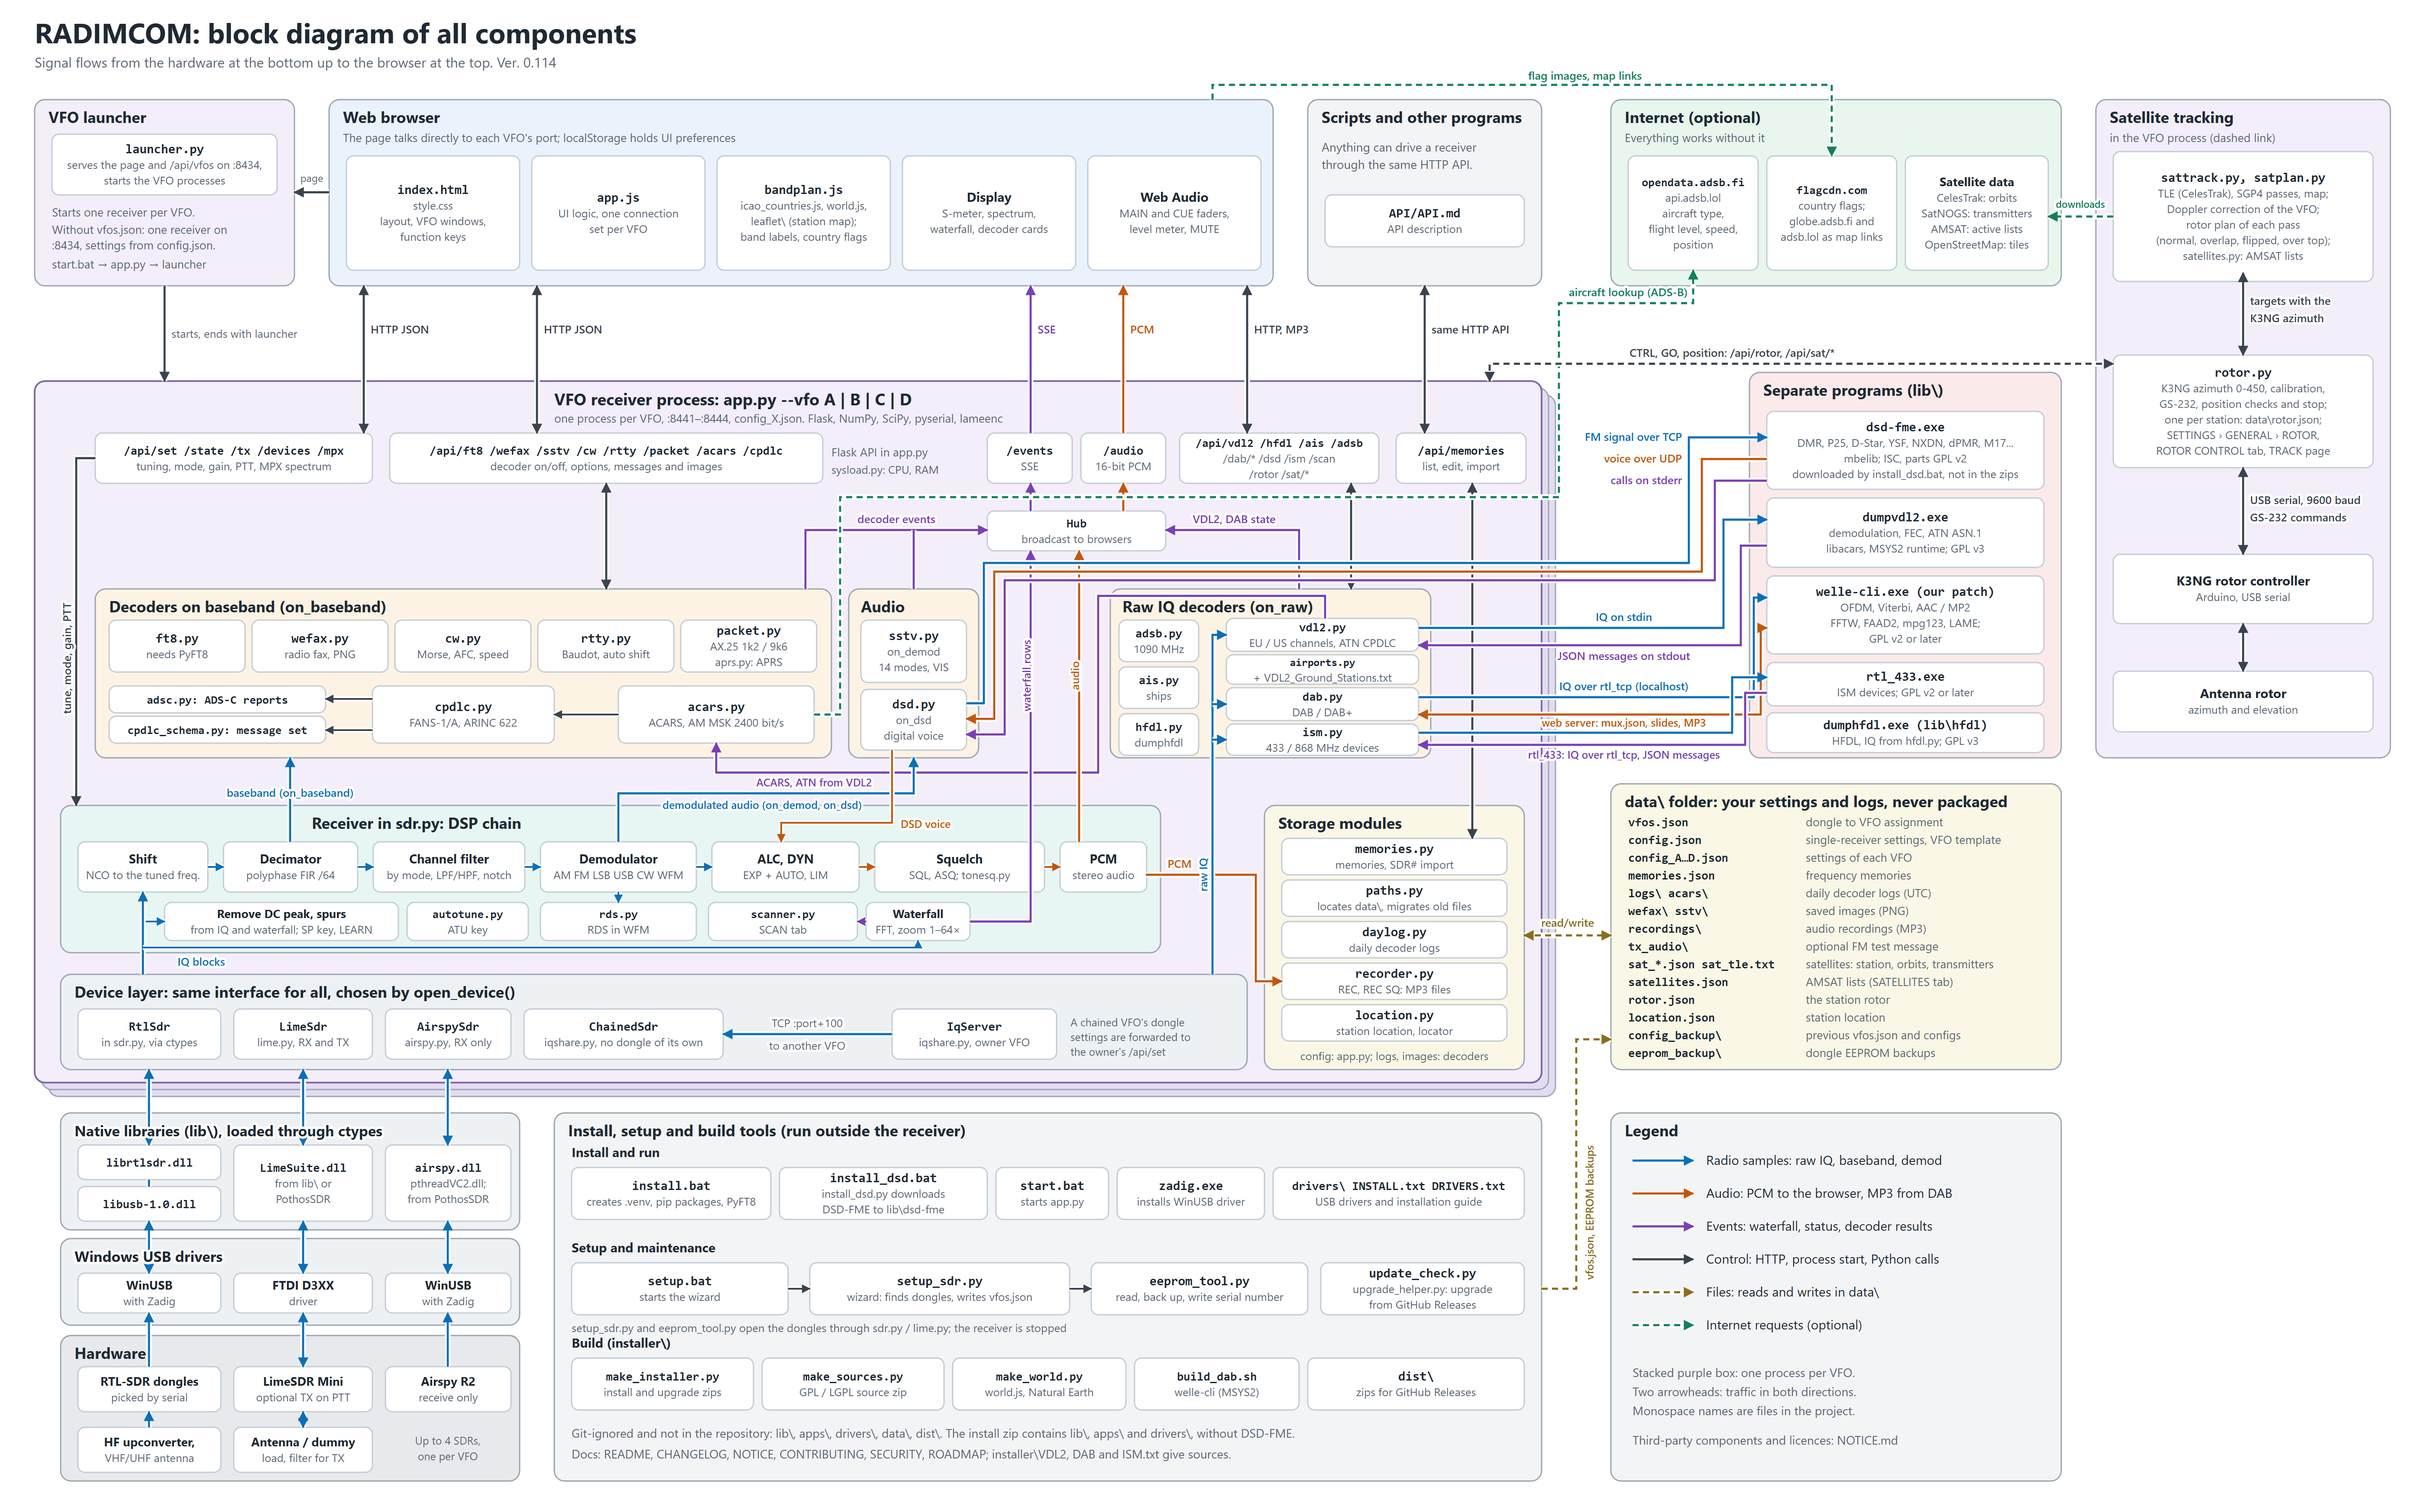
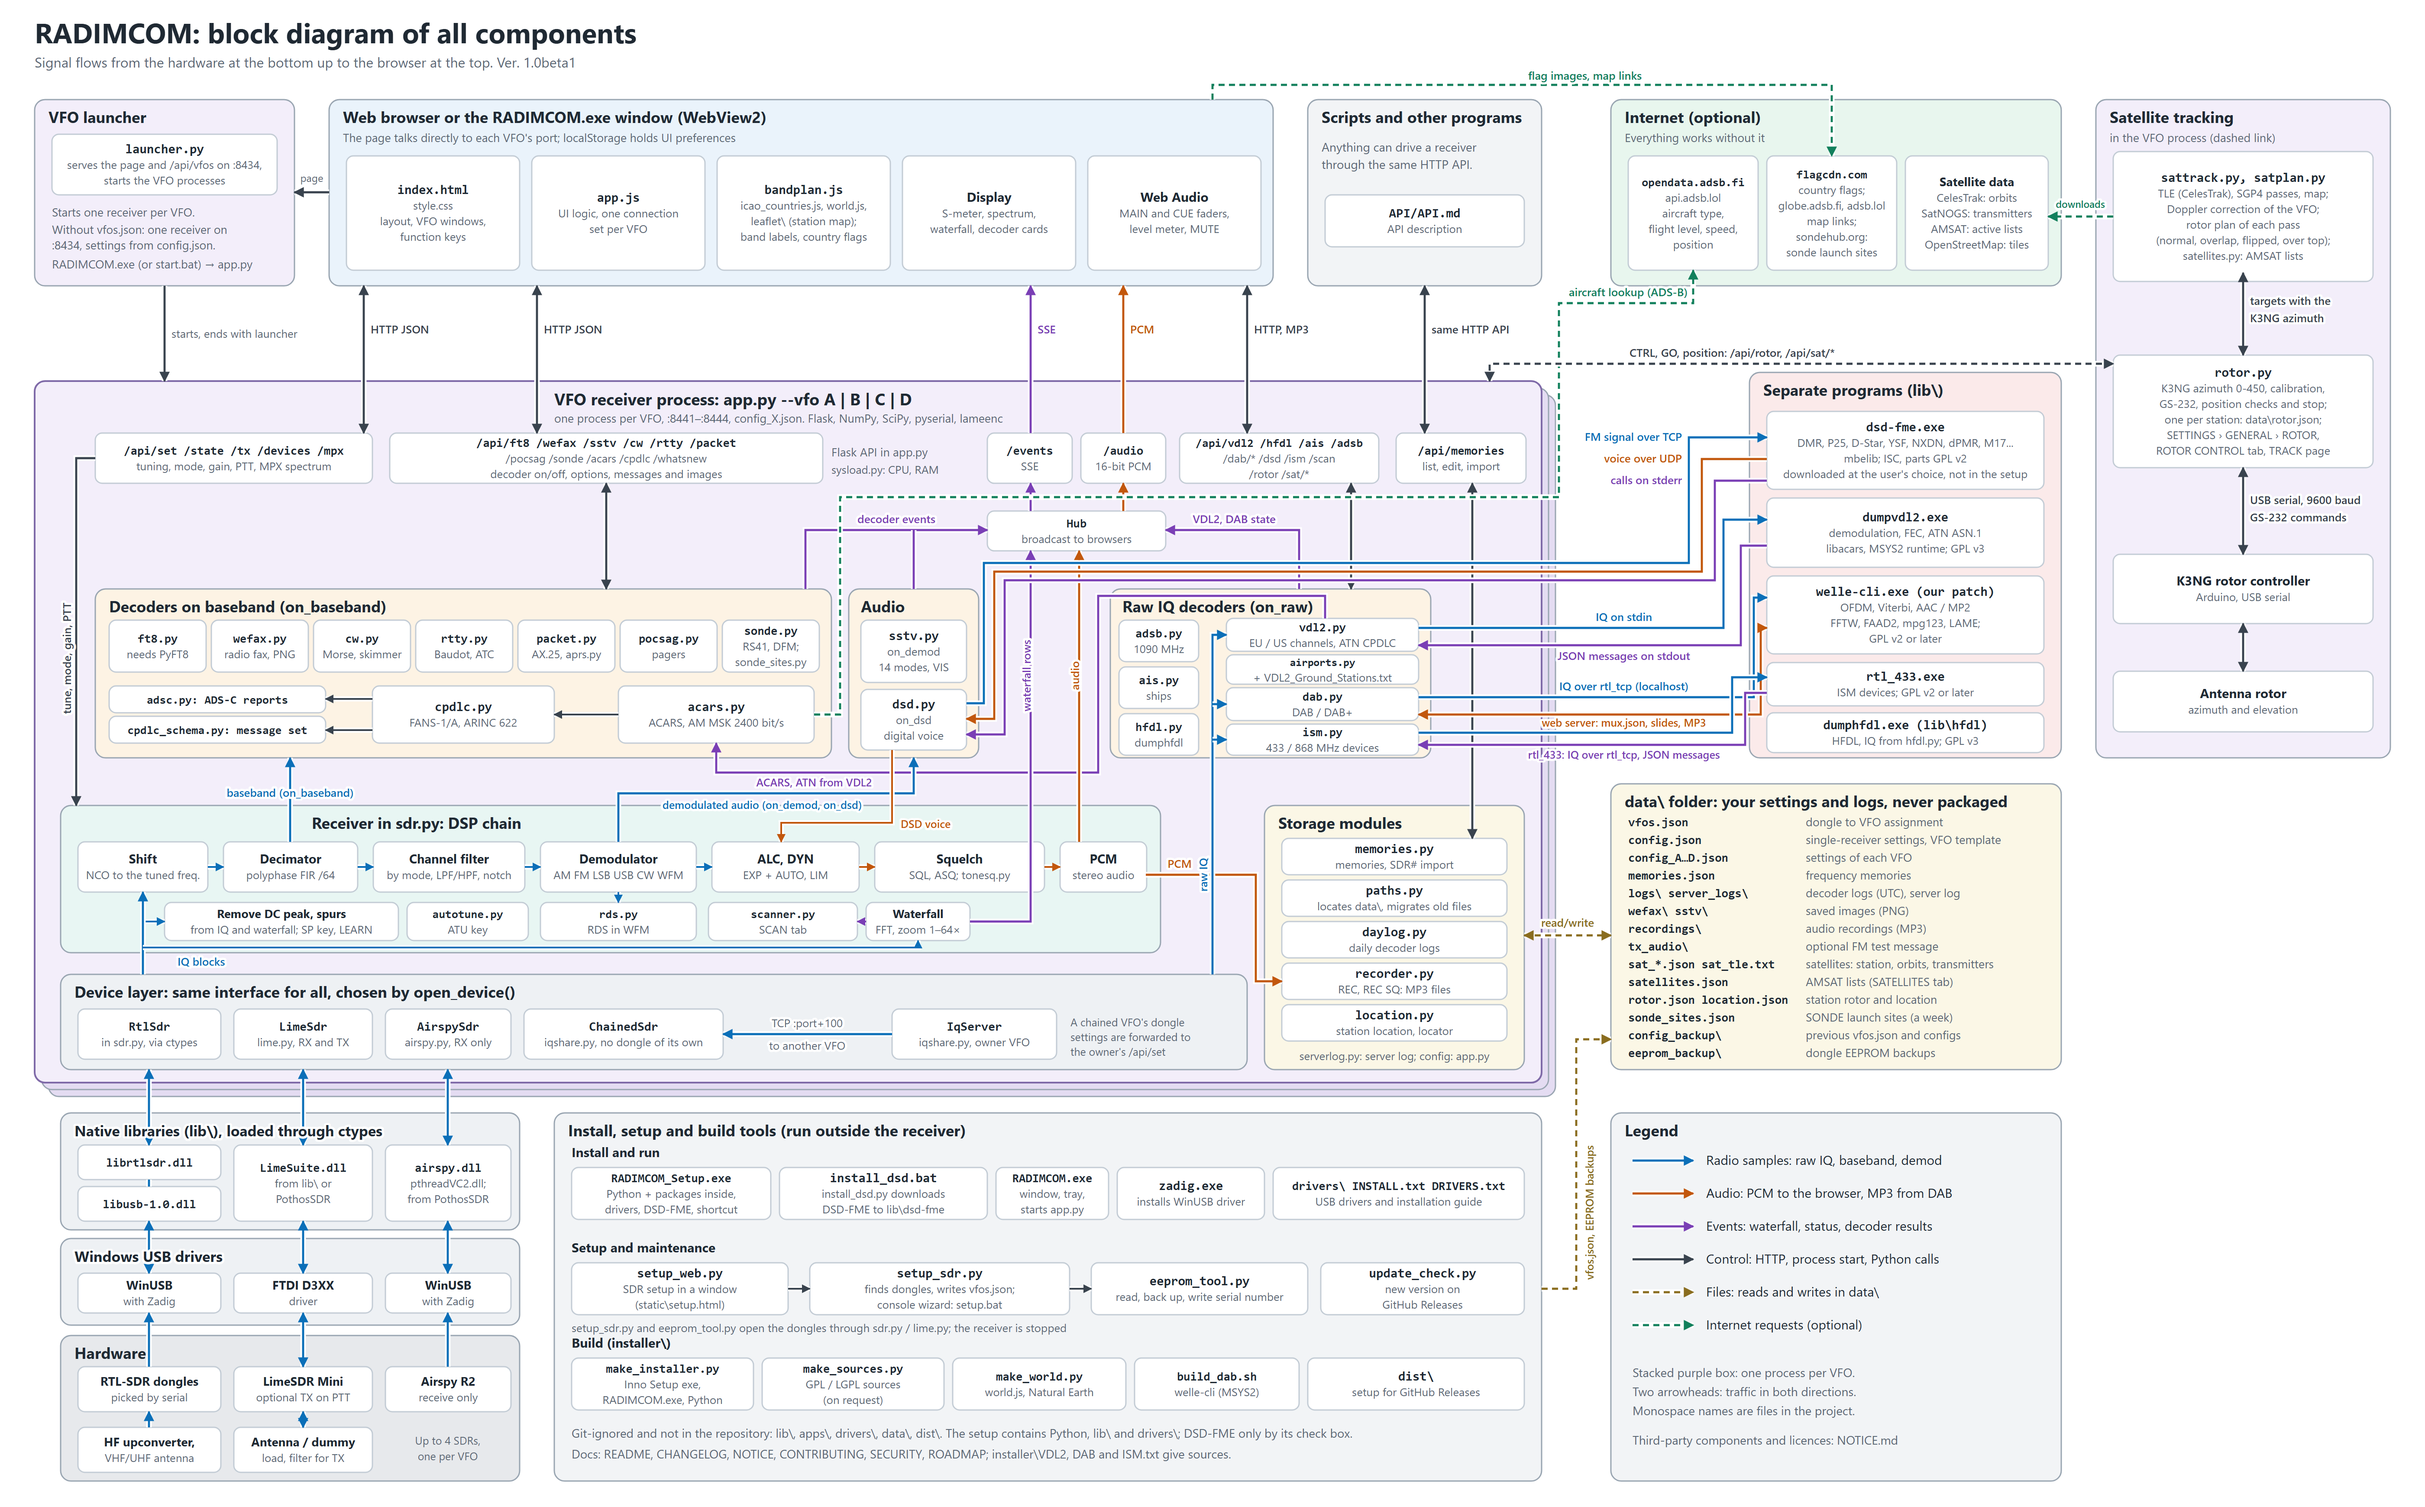
1.0beta1: new test beta after the 0.115 release (version 1.0beta1, changelog sections); NOTICE: GPL / LGPL sources on request instead of a zip per release; block diagram updated to 0.115 (setup, RADIMCOM.exe, SDR setup window, server log, POCSAG, radiosondes, SondeHub)

diff --git a/static/index.html b/static/index.html
@@ -171,7 +171,7 @@
         </a>
         <span class="r-tag">SDR COMMUNICATIONS RECEIVER</span>
         <!-- version under the logo (installer and update_check read it from .r-ver); a newer one blinks beside it, DONATE under it -->
-        <span class="r-vers"><span class="r-ver">Ver. 0.115</span><a class="r-upd" id="updLink" href="https://github.com/om2amr/RADIMCOM/releases" target="_blank" rel="noopener noreferrer" hidden></a></span>
+        <span class="r-vers"><span class="r-ver">Ver. 1.0beta1</span><a class="r-upd" id="updLink" href="https://github.com/om2amr/RADIMCOM/releases" target="_blank" rel="noopener noreferrer" hidden></a></span>
         <button class="r-don" id="donBtn" type="button" title="Support RADIMCOM – buy us a coffee">☕ DONATE</button>
         </div>
         <!-- only in RADIMCOM.exe (app window): full screen as a small engraved icon in the corner (MAIN is the LED of the logo) -->

diff --git a/docs/block_diagram.py b/docs/block_diagram.py
@@ -48,7 +48,7 @@ def label(x,y,s,kind=None,anchor="middle",size=13,rot=None):
 
 # Title
 text(40,50,"RADIMCOM: block diagram of all components",32,weight=700)
-text(40,78,"Signal flows from the hardware at the bottom up to the browser at the top. Ver. 0.114",16,MUTE)
+text(40,78,"Signal flows from the hardware at the bottom up to the browser at the top. Ver. 1.0beta1",16,MUTE)
 
 # ---------- top row ----------
 group(40,115,300,215,"VFO launcher",FILL["srv"])
@@ -56,9 +56,9 @@ box(60,155,260,70,"launcher.py",["serves the page and /api/vfos on :8434,","star
 text(60,250,"Starts one receiver per VFO.",13.5,MUTE)
 text(60,270,"Without vfos.json: one receiver on",13.5,MUTE)
 text(60,288,":8434, settings from config.json.",13.5,MUTE)
-text(60,310,"start.bat → app.py → launcher",13.5,MUTE)
+text(60,310,"RADIMCOM.exe (or start.bat) → app.py",13.5,MUTE)
 
-group(380,115,1090,215,"Web browser",FILL["ui"],"The page talks directly to each VFO's port; localStorage holds UI preferences")
+group(380,115,1090,215,"Web browser or the RADIMCOM.exe window (WebView2)",FILL["ui"],"The page talks directly to each VFO's port; localStorage holds UI preferences")
 box(400,180,200,132,"index.html",["style.css","layout, VFO windows,","function keys"],)
 box(614,180,200,132,"app.js",["UI logic, one connection","set per VFO"])
 box(828,180,200,132,"bandplan.js",["icao_countries.js, world.js,","leaflet\\ (station map);","band labels, country flags"])
@@ -72,7 +72,7 @@ box(1530,225,230,60,"API/API.md",["API description"])
 
 group(1860,115,520,215,"Internet (optional)",FILL["net"],"Everything works without it")
 box(1880,180,150,132,"opendata.adsb.fi",["api.adsb.lol","aircraft type,","flight level, speed,","position"],size=13.5)
-box(2040,180,150,132,"flagcdn.com",["country flags;","globe.adsb.fi and","adsb.lol as map links"],size=13.5)
+box(2040,180,150,132,"flagcdn.com",["country flags;","globe.adsb.fi, adsb.lol","map links;","sondehub.org:","sonde launch sites"],size=13.5)
 box(2200,180,165,132,"Satellite data",["CelesTrak: orbits","SatNOGS: transmitters","AMSAT: active lists","OpenStreetMap: tiles"],mono=False,size=14)
 
 # ---------- receiver process ----------
@@ -85,7 +85,7 @@ text(640,488,"one process per VFO, :8441–:8444, config_X.json. Flask, NumPy, S
 # API row
 Y=500;HA=58
 box(110,Y,320,HA,"/api/set /state /tx /devices /mpx",["tuning, mode, gain, PTT, MPX spectrum"],size=14)
-box(450,Y,500,HA,"/api/ft8 /wefax /sstv /cw /rtty /packet /acars /cpdlc",["decoder on/off, options, messages and images"],size=14)
+box(450,Y,500,HA,"/api/ft8 /wefax /sstv /cw /rtty /packet",["/pocsag /sonde /acars /cpdlc /whatsnew","decoder on/off, options, messages and images"],size=14)
 box(1140,Y,98,HA,"/events",["SSE"],size=14)
 box(1248,Y,98,HA,"/audio",["16-bit PCM"],size=14)
 box(1362,Y,230,HA,"/api/vdl2 /hfdl /ais /adsb",["/dab/* /dsd /ism /scan","/rotor /sat/*"],size=13.5)
@@ -96,9 +96,9 @@ box(1140,590,206,46,"Hub",["broadcast to browsers"],size=14)
 
 # Decoders
 group(110,680,850,195,"Decoders on baseband (on_baseband)",FILL["dec"],tx=126)
-BW=157
-for i,(n,l) in enumerate([("ft8.py",["needs PyFT8"]),("wefax.py",["radio fax, PNG"]),("cw.py",["Morse, AFC, speed"]),("rtty.py",["Baudot, auto shift"]),("packet.py",["AX.25 1k2 / 9k6","aprs.py: APRS"])]):
-    box(126+i*(BW+8),716,BW,60,n,l)
+BW=112
+for i,(n,l) in enumerate([("ft8.py",["needs PyFT8"]),("wefax.py",["radio fax, PNG"]),("cw.py",["Morse, skimmer"]),("rtty.py",["Baudot, ATC"]),("packet.py",["AX.25, aprs.py"]),("pocsag.py",["pagers"]),("sonde.py",["RS41, DFM;","sonde_sites.py"])]):
+    box(126+i*(BW+6),716,BW,60,n,l,size=14)
 box(126,792,250,31,"adsc.py: ADS-C reports",[],size=13.5)
 box(126,827,250,31,"cpdlc_schema.py: message set",[],size=13.5)
 box(430,792,210,66,"cpdlc.py",["FANS-1/A, ARINC 622"])
@@ -156,11 +156,11 @@ box(1480,1016,260,42,"paths.py",["locates data\\, migrates old files"])
 box(1480,1064,260,42,"daylog.py",["daily decoder logs"])
 box(1480,1112,260,42,"recorder.py",["REC, REC SQ: MP3 files"])
 box(1480,1160,260,42,"location.py",["station location, locator"])
-text(1610,1224,"config: app.py; logs, images: decoders",13,MUTE,anchor="middle")
+text(1610,1224,"serverlog.py: server log; config: app.py",13,MUTE,anchor="middle")
 
 # ---------- external programs ----------
 group(2020,430,360,445,"Separate programs (lib\\)",FILL["ext"])
-box(2040,475,320,90,"dsd-fme.exe",["DMR, P25, D-Star, YSF, NXDN, dPMR, M17...","mbelib; ISC, parts GPL v2","downloaded by install_dsd.bat, not in the zips"])
+box(2040,475,320,90,"dsd-fme.exe",["DMR, P25, D-Star, YSF, NXDN, dPMR, M17...","mbelib; ISC, parts GPL v2","downloaded at the user's choice, not in the setup"])
 box(2040,575,320,80,"dumpvdl2.exe",["demodulation, FEC, ATN ASN.1","libacars, MSYS2 runtime; GPL v3"])
 box(2040,665,320,90,"welle-cli.exe (our patch)",["OFDM, Viterbi, AAC / MP2","FFTW, FAAD2, mpg123, LAME;","GPL v2 or later"])
 box(2040,765,320,50,"rtl_433.exe",["ISM devices; GPL v2 or later"])
@@ -175,7 +175,7 @@ box(2440,775,300,70,"Antenna rotor",["azimuth and elevation"],mono=False)
 
 # ---------- data ----------
 group(1860,905,520,330,"data\\ folder: your settings and logs, never packaged",FILL["data"])
-rows=[("vfos.json","dongle to VFO assignment"),("config.json","single-receiver settings, VFO template"),("config_A…D.json","settings of each VFO"),("memories.json","frequency memories"),("logs\\  acars\\","daily decoder logs (UTC)"),("wefax\\  sstv\\","saved images (PNG)"),("recordings\\","audio recordings (MP3)"),("tx_audio\\","optional FM test message"),("sat_*.json  sat_tle.txt","satellites: station, orbits, transmitters"),("satellites.json","AMSAT lists (SATELLITES tab)"),("rotor.json","the station rotor"),("location.json","station location"),("config_backup\\","previous vfos.json and configs"),("eeprom_backup\\","dongle EEPROM backups")]
+rows=[("vfos.json","dongle to VFO assignment"),("config.json","single-receiver settings, VFO template"),("config_A…D.json","settings of each VFO"),("memories.json","frequency memories"),("logs\\  server_logs\\","decoder logs (UTC), server log"),("wefax\\  sstv\\","saved images (PNG)"),("recordings\\","audio recordings (MP3)"),("tx_audio\\","optional FM test message"),("sat_*.json  sat_tle.txt","satellites: station, orbits, transmitters"),("satellites.json","AMSAT lists (SATELLITES tab)"),("rotor.json  location.json","station rotor and location"),("sonde_sites.json","SONDE launch sites (a week)"),("config_backup\\","previous vfos.json and configs"),("eeprom_backup\\","dongle EEPROM backups")]
 for i,(a,b) in enumerate(rows):
     y=954+i*20.5
     text(1880,y,a,14,weight=700,mono=True); text(2085,y,b,13.5,MUTE)
@@ -202,26 +202,26 @@ text(517,1686,"one per VFO",12.5,MUTE,anchor="middle")
 # Tools
 group(640,1285,1140,425,"Install, setup and build tools (run outside the receiver)",FILL["tool"])
 text(660,1336,"Install and run",15,weight=700)
-box(660,1348,230,60,"install.bat",["creates .venv, pip packages, PyFT8"])
+box(660,1348,230,60,"RADIMCOM_Setup.exe",["Python + packages inside,","drivers, DSD-FME, shortcut"],size=14)
 box(900,1348,240,60,"install_dsd.bat",["install_dsd.py downloads","DSD-FME to lib\\dsd-fme"])
-box(1150,1348,130,60,"start.bat",["starts app.py"])
+box(1150,1348,130,60,"RADIMCOM.exe",["window, tray,","starts app.py"],size=14)
 box(1290,1348,170,60,"zadig.exe",["installs WinUSB driver"])
 box(1470,1348,290,60,"drivers\\  INSTALL.txt  DRIVERS.txt",["USB drivers and installation guide"],size=14)
 text(660,1446,"Setup and maintenance",15,weight=700)
-box(660,1458,250,60,"setup.bat",["starts the wizard"])
-box(935,1458,300,60,"setup_sdr.py",["wizard: finds dongles, writes vfos.json"])
+box(660,1458,250,60,"setup_web.py",["SDR setup in a window","(static\\setup.html)"])
+box(935,1458,300,60,"setup_sdr.py",["finds dongles, writes vfos.json;","console wizard: setup.bat"])
 box(1260,1458,250,60,"eeprom_tool.py",["read, back up, write serial number"])
 path([(910,1488),(935,1488)],"ctl",sw=2)
 path([(1235,1488),(1260,1488)],"ctl",sw=2)
 text(660,1538,"setup_sdr.py and eeprom_tool.py open the dongles through sdr.py / lime.py; the receiver is stopped",13,MUTE)
 box(1525,1458,235,60,"update_check.py",["new version on","GitHub Releases"])
 text(660,1556,"Build (installer\\)",15,weight=700)
-box(660,1568,210,60,"make_installer.py",["install and upgrade zips"],size=14)
-box(880,1568,210,60,"make_sources.py",["GPL / LGPL source zip"],size=14)
+box(660,1568,210,60,"make_installer.py",["Inno Setup exe,","RADIMCOM.exe, Python"],size=14)
+box(880,1568,210,60,"make_sources.py",["GPL / LGPL sources","(on request)"],size=14)
 box(1100,1568,200,60,"make_world.py",["world.js, Natural Earth"],size=14)
 box(1310,1568,190,60,"build_dab.sh",["welle-cli (MSYS2)"],size=14)
-box(1510,1568,250,60,"dist\\",["zips for GitHub Releases"])
-text(660,1660,"Git-ignored and not in the repository: lib\\, apps\\, drivers\\, data\\, dist\\. The install zip contains lib\\, apps\\ and drivers\\, without DSD-FME.",14,MUTE)
+box(1510,1568,250,60,"dist\\",["setup for GitHub Releases"])
+text(660,1660,"Git-ignored and not in the repository: lib\\, apps\\, drivers\\, data\\, dist\\. The setup contains Python, lib\\ and drivers\\; DSD-FME only by its check box.",14,MUTE)
 text(660,1684,"Docs: README, CHANGELOG, NOTICE, CONTRIBUTING, SECURITY, ROADMAP; installer\\VDL2, DAB and ISM.txt give sources.",14,MUTE)
 
 # ---------- legend ----------

diff --git a/NOTICE.md b/NOTICE.md
@@ -60,13 +60,14 @@ may infringe patent rights in your jurisdiction and/or require a licence. Check 
 
 ### Source code
 
-Each release from Ver. 0.108 has `RADIMCOM_sources_v<version>.zip` with the source code of the GPL and LGPL components
-in that release, in the exact versions used, and the build instructions (`installer/VDL2.txt`, `installer/DAB.txt`,
-`installer/build_dab.sh`, `installer/welle_radimcom.patch`). The list of its contents is `SOURCES.txt` in that zip. It is built by
-`installer/make_sources.py`.
+The source code of the GPL and LGPL components in a release, in the exact versions used, with the build instructions
+(`installer/VDL2.txt`, `installer/DAB.txt`, `installer/build_dab.sh`, `installer/welle_radimcom.patch`), is available
+**on request**: write to radim.mutina@gmail.com and name the RADIMCOM version. This offer is valid to anyone who received
+that release, for at least three years after it was published. The source package is built by `installer/make_sources.py`
+(its list of contents is `SOURCES.txt`); the releases Ver. 0.108 – 0.114 also have it attached as
+`RADIMCOM_sources_v<version>.zip`.
 
-**librtlsdr:** the exact source of the `librtlsdr.dll` in the packages is still being confirmed, so it is not in that
-zip yet. To ask for it, or for any other source code, write to radim.mutina@gmail.com.
+**librtlsdr:** the exact source of the `librtlsdr.dll` in the packages is still being confirmed; ask for it at the same address.
 
 ### Data
 

diff --git a/CHANGELOG.md b/CHANGELOG.md
@@ -1,5 +1,9 @@
 # Changelog
 
+## Ver. 1.0beta1
+
+Test beta (GitHub branch `1.0beta1`; continues the release 0.115).
+
 ## Ver. 0.115
 
 Released after the test beta (GitHub branch `0.115beta1`) and the release candidate (`0.115rc1`). Many parts are contributed by **Brano, [brjanicek](https://github.com/brjanicek)** (marked *by Brano*).
